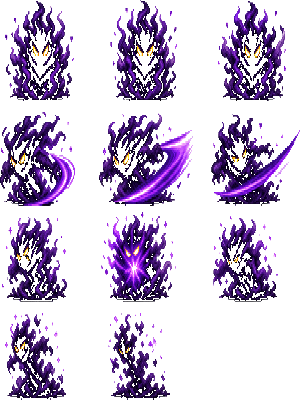
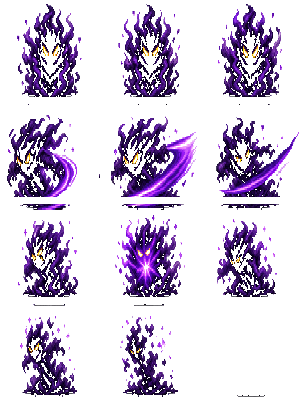
perf(combat): normalize hero and boss spritesheets to stable foot anchor
Runs normalize-spritesheet.py (feet mode) on both sheets so every
frame is re-anchored to the same baseline — fixes horizontal drift
between animation frames without touching the pixel art.

diff --git a/scripts/normalize-spritesheet.py b/scripts/normalize-spritesheet.py
@@ -1,0 +1,77 @@
+#!/usr/bin/env python3
+"""Re-anchor every frame of a sprite grid to a consistent foot baseline.
+
+Keeps the original pixel art untouched (no repaint); only translates/scales each
+cell so the character stands in the same spot frame-to-frame. Fixes horizontal
+drift and head clipping caused by inconsistent per-frame anchoring.
+"""
+import sys
+from PIL import Image
+
+TOP_MARGIN = 4
+BOTTOM_MARGIN = 3
+SIDE_MARGIN = 3
+FEET_BAND = 16  # px from content bottom used to find the horizontal foot center
+
+
+def alpha_bbox(cell):
+    # Full alpha bbox so no real pixel art (faint hair tips) is ever cropped.
+    return cell.split()[3].getbbox()
+
+
+def foot_center_x(cell, bbox):
+    x0, y0, x1, y1 = bbox
+    band_top = max(y0, y1 - FEET_BAND)
+    a = cell.split()[3]
+    total = 0
+    wsum = 0
+    px = a.load()
+    for y in range(band_top, y1):
+        for x in range(x0, x1):
+            v = px[x, y]
+            if v:
+                total += v
+                wsum += v * x
+    if total == 0:
+        return (x0 + x1) / 2
+    return wsum / total
+
+
+def normalize(path, out, cols, rows, cell, mode="feet"):
+    im = Image.open(path).convert("RGBA")
+    dst = Image.new("RGBA", im.size, (0, 0, 0, 0))
+    usable_h = cell - TOP_MARGIN - BOTTOM_MARGIN
+    usable_w = cell - 2 * SIDE_MARGIN
+    for r in range(rows):
+        for c in range(cols):
+            src = im.crop((c * cell, r * cell, (c + 1) * cell, (r + 1) * cell))
+            bb = alpha_bbox(src)
+            if bb is None:
+                continue
+            x0, y0, x1, y1 = bb
+            w, h = x1 - x0, y1 - y0
+            s = min(1.0, usable_h / h, usable_w / w)
+            content = src.crop(bb)
+            if s < 1.0:
+                content = content.resize(
+                    (max(1, round(w * s)), max(1, round(h * s))), Image.NEAREST
+                )
+            cw, ch = content.size
+            if mode == "feet":
+                fx = foot_center_x(src, bb)
+                anchor_x = (fx - x0) * s
+                paste_x = round(cell / 2 - anchor_x)
+            else:
+                paste_x = round((cell - cw) / 2)
+            paste_y = cell - BOTTOM_MARGIN - ch
+            paste_x = max(0, min(cell - cw, paste_x))
+            paste_y = max(0, min(cell - ch, paste_y))
+            dst.alpha_composite(content, (c * cell + paste_x, r * cell + paste_y))
+    dst.save(out)
+    print("wrote", out, dst.size)
+
+
+if __name__ == "__main__":
+    path, out, cols, rows, cell = sys.argv[1:6]
+    mode = sys.argv[6] if len(sys.argv) > 6 else "feet"
+    normalize(path, out, int(cols), int(rows), int(cell), mode)